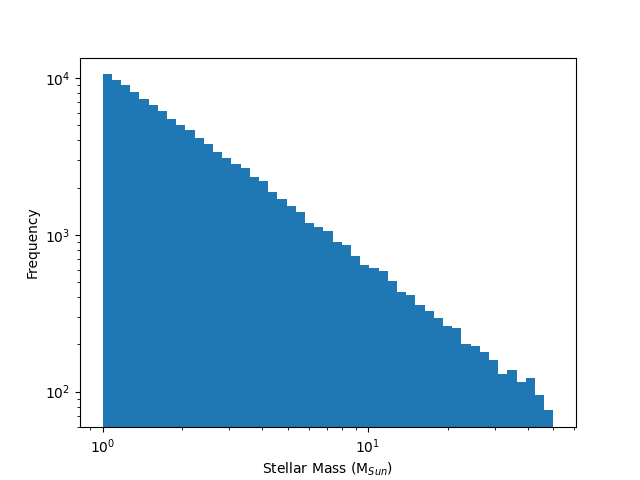
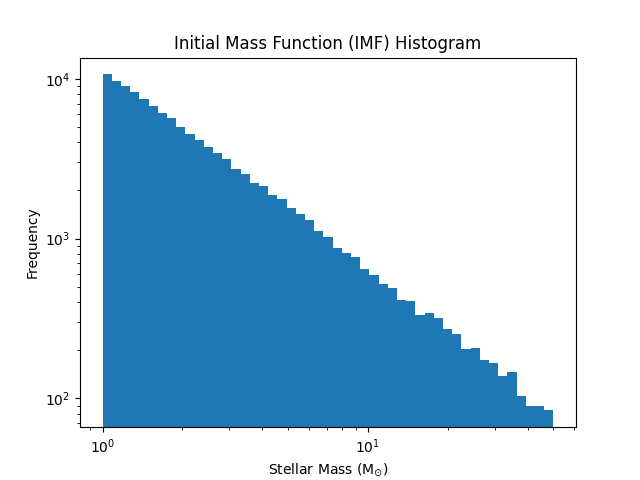
speedups and more runs

diff --git a/python/equations.py b/python/equations.py
@@ -1,8 +1,9 @@
 """This module contains functions representing equations in https://doi.org/10.1093/mnras/sts479"""
 
-import astropy.constants as astro_const
+from numba import njit
 
 
+@njit
 def quantile_func(u: float) -> float:
     """This function replicates the quantile function,
     Equation 4 in Table 1 of https://doi.org/10.1093/mnras/sts479.
@@ -16,12 +17,13 @@ def quantile_func(u: float) -> float:
         float: Result of quantile function, which is a stellar mass in SI units.
     """
 
-    mu: float = 0.2 * astro_const.M_sun.value
+    solar_mass: float = 1.98840987e30  # SI units
+    mu: float = 0.2 * solar_mass
     alpha: float = 2.3
     beta: float = 1.4
 
-    upper_mass_limit: float = 50 * astro_const.M_sun.value
-    lower_mass_limit: float = 0.1 * astro_const.M_sun.value
+    upper_mass_limit: float = 50 * solar_mass
+    lower_mass_limit: float = 0.1 * solar_mass
 
     return mu * (
         (
@@ -33,6 +35,7 @@ def quantile_func(u: float) -> float:
     ) ** (1 / (1 - alpha))
 
 
+@njit
 def auxiliary_func(stellar_mass: float) -> float:
     """This function replicates the auxiliary function,
     Equation 1 in Table 1 of https://doi.org/10.1093/mnras/sts479.
@@ -45,7 +48,8 @@ def auxiliary_func(stellar_mass: float) -> float:
         float: Result of auxiliary function (SI units)
     """
 
-    mu: float = 0.2 * astro_const.M_sun.value
+    solar_mass: float = 1.98840987e30  # SI units
+    mu: float = 0.2 * solar_mass
     alpha: float = 2.3
     beta: float = 1.4
 

diff --git a/python/functions.py b/python/functions.py
@@ -1,6 +1,5 @@
 """Module contains functions useful for completing parts of the project"""
 
-from typing import Sequence
 import os
 import numpy as np
 import matplotlib.pyplot as plt
@@ -28,8 +27,9 @@ def plot_imf_histogram(stellar_mass_array: np.ndarray) -> None:
     )
     plt.yscale("log")
     plt.xscale("log")
-    plt.xlabel("Stellar Mass (M$_{Sun}$)")
+    plt.xlabel("Stellar Mass (M$_{\odot}$)")
     plt.ylabel("Frequency")
+    plt.title("Initial Mass Function (IMF) Histogram")
     plt.savefig(get_base_dir() + "/output/graphs/imf_histogram.png")
 
 
@@ -41,7 +41,7 @@ def save_imf_values(u: np.ndarray, stellar_mass_array: np.ndarray) -> None:
         stellar_mass_array (np.ndarray): Stellar mass array (SI units) from quantile func (see equations.py)
     """
 
-    csv_dir = get_base_dir() + "/output/csv"
+    csv_dir: str = get_base_dir() + "/output/csv"
     np.savetxt(
         csv_dir + "/imf_values.csv",
         np.column_stack((u, stellar_mass_array)),

diff --git a/python/main.py b/python/main.py
@@ -2,7 +2,7 @@
 
 import numpy as np
 
-from python.functions import save_imf_values, plot_imf_histogram
+from python.functions import plot_imf_histogram, save_imf_values
 from python.equations import quantile_func
 
 
@@ -11,10 +11,10 @@ def main() -> None:
 
     runs: int = 1_000_000
 
-    u: np.ndarray = np.array([np.random.uniform(0, 1) for _ in range(runs)])
-    stellar_mass_arr: np.ndarray = np.array(
-        [quantile_func(u[x]) for x in range(runs)]
-    )  # SI units
+    u = np.random.uniform(0, 1, runs)
+    stellar_mass_arr = np.vectorize(quantile_func)(u)  # SI units
 
+    print("Saving IMF values to CSV...")
     save_imf_values(u, stellar_mass_arr)
+    print("Plotting IMF histogram...")
     plot_imf_histogram(stellar_mass_arr)

diff --git a/setup.py b/setup.py
@@ -2,7 +2,7 @@ from setuptools import setup
 from mypyc.build import mypycify
 
 # List of modules to be compiled
-modules = ["python/equations.py", "python/main.py", "python/functions.py"]
+modules = ["python/main.py", "python/functions.py"]
 
 setup(
     name="Project",
